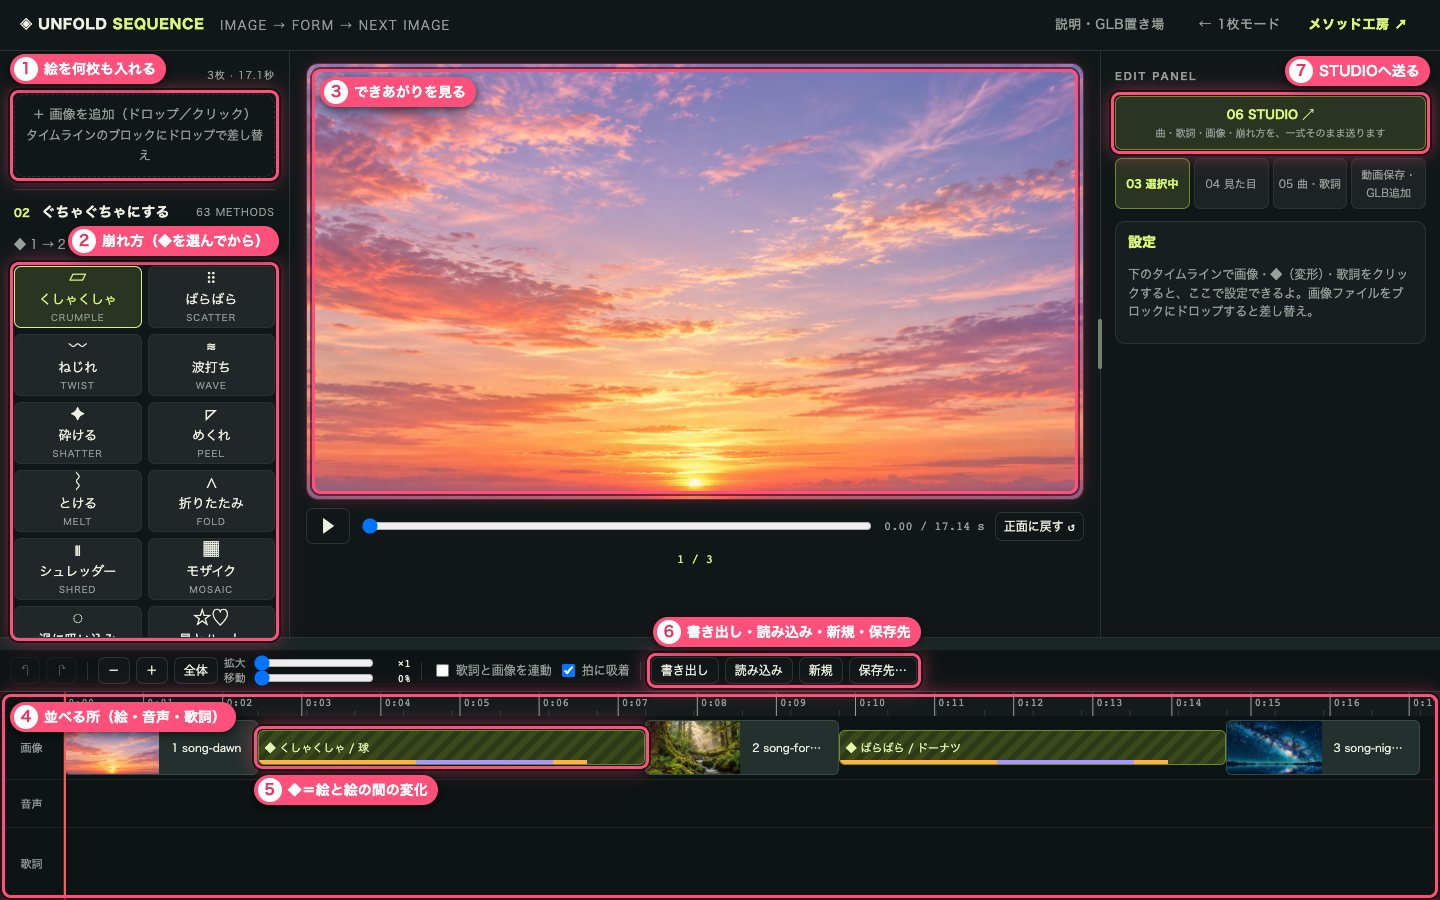
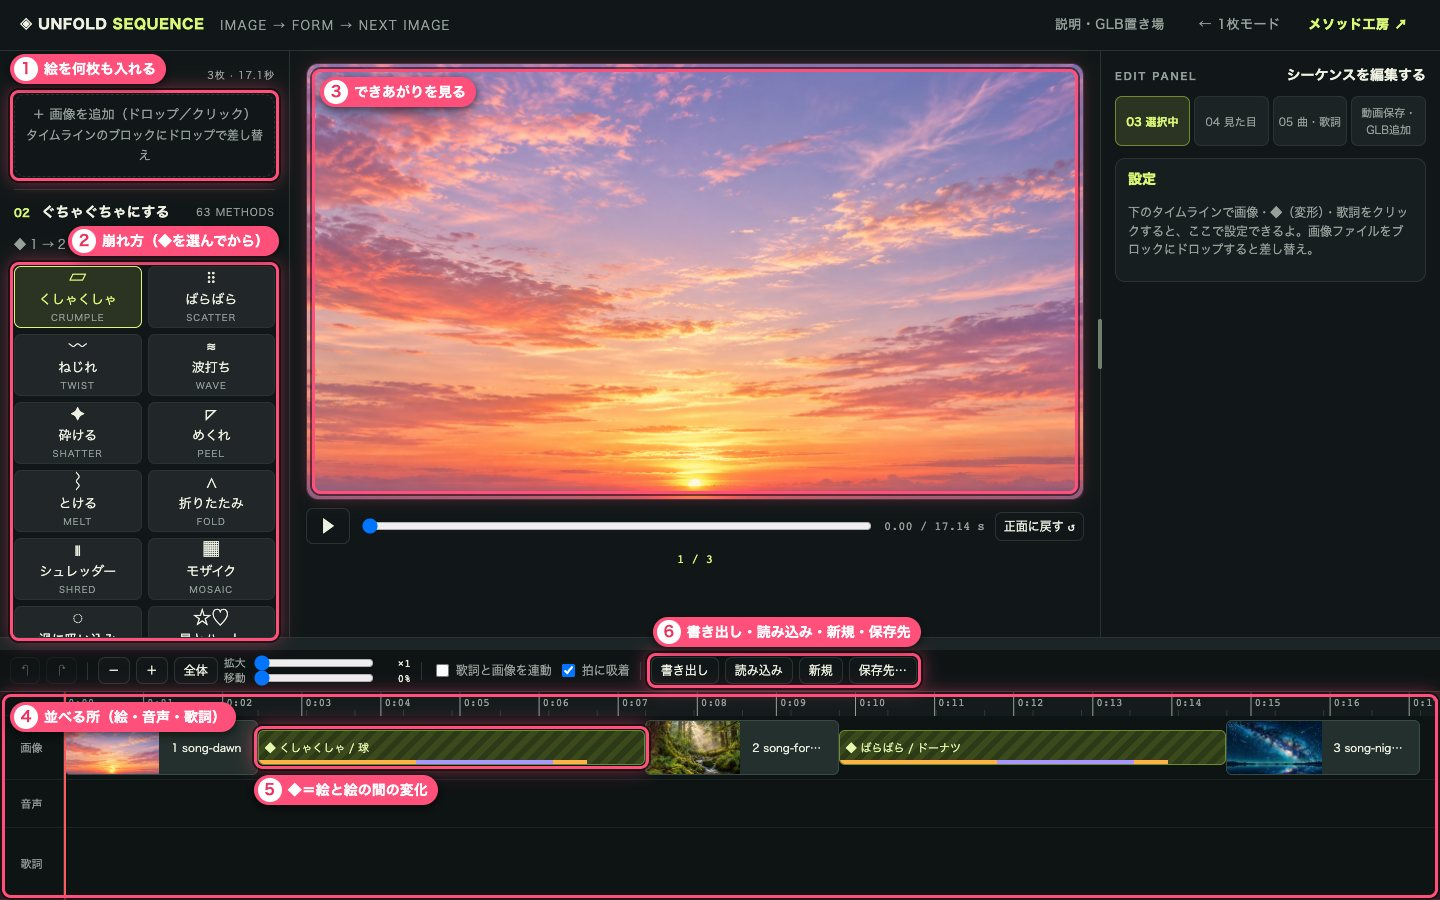
シーケンスから STUDIO への入口を閉じる（STUDIO の画面は、前の作品のために残す）
MV づくりは MOTION LAB へ移す。シーケンスで曲と歌詞まで入れて .unfold に保存し、
MOTION LAB の「作品を開く」で開く。シーケンスの「06 STUDIO」と送る処理、説明書の案内と
ページ下のリンクを外し、説明書の写真を撮り直した。studio.html とエンジンは残す
（MOTION LAB が app/studio/cuts/ を写しているため）。

Changed region(s): [[0.75, 0.0622, 1.0, 0.3733]]

diff --git a/app/guide/manual.html b/app/guide/manual.html
@@ -47,11 +47,10 @@ h3.sub{margin:30px 0 4px;font-size:18px}
 <div class="hero">
   <div class="eyebrow">HOW TO USE</div>
   <h1>使い方 — <em>画面の見かた</em></h1>
-  <p class="lede">UNFOLD には画面が3つあります。まず1枚の絵で試して、何枚もつないで曲に合わせ、最後に STUDIO で歌詞のMVに仕上げる、という順番です。写真の<b style="color:#ff6d93">ピンクの番号</b>が、下の説明の番号です。</p>
+  <p class="lede">UNFOLD には画面が2つあります。まず1枚の絵で試して、何枚もつないで曲と歌詞に合わせ、作品（.unfold）に保存する、という順番です。写真の<b style="color:#ff6d93">ピンクの番号</b>が、下の説明の番号です。</p>
   <div class="flow">
     <a href="#single"><b>① 1枚モード</b><span>1枚の絵を崩して、立体にして、もとに戻す。まずはここで試す</span></a>
     <a href="#sequence"><b>② シーケンス</b><span>絵を何枚も並べて、間の変化（◆）を決める。曲と歌詞も入れられる</span></a>
-    <a href="#studio"><b>③ STUDIO</b><span>曲・歌詞・絵を重ねて、歌詞の動きや演出を決めて、MVとショートにする</span></a>
   </div>
 </div>
 
@@ -81,7 +80,6 @@ h3.sub{margin:30px 0 4px;font-size:18px}
     <li data-n="4"><b>並べる所</b>上から「画像」「音声」「歌詞」。ドラッグで並べ替え、端をつまんで長さを変えます。</li>
     <li data-n="5"><b>◆ ＝ 絵と絵の間の変化</b>押すと、右にその◆の設定が出ます（下の写真）。</li>
     <li data-n="6"><b>書き出し・読み込み・新規・保存先</b>「書き出し」は作品を1つのファイル（.unfold）に保存、「読み込み」はそのファイルを開きます。「新規」は確かめてから空にします（書き出していない変更は消えます）。「保存先…」を決めると、パソコンのファイルにも自動で保存します。</li>
-    <li data-n="7"><b>STUDIOへ送る</b>曲・歌詞・絵・崩れ方を一式そのまま STUDIO に送ります。</li>
   </ol>
   <figure class="shot"><a href="./manual/sequence-2.jpg" target="_blank" rel="noopener" title="大きく見る"><img src="./manual/sequence-2.jpg" width="1440" height="900" alt="◆を選んだところ。右に崩れ方・戻り方・形の設定" loading="lazy"></a><figcaption>◆を選んだ所</figcaption></figure>
   <ol class="marks">
@@ -93,7 +91,7 @@ h3.sub{margin:30px 0 4px;font-size:18px}
 
 <section id="studio">
   <h2><small>03</small>STUDIO</h2>
-  <p>曲・歌詞・絵・動画・UNFOLDの変形を、同じ曲の時間に重ねて、MVに仕上げる画面です。シーケンスの「06 STUDIO」から送ると、全部そろった状態で開きます。</p>
+  <p>曲・歌詞・絵・動画・UNFOLDの変形を、同じ曲の時間に重ねて、MVに仕上げる画面です。シーケンスからの入口は閉じました。前に STUDIO で作った作品を開いて書き出すために、画面だけ残しています（<code>studio.html</code>）。</p>
 
   <h3 class="sub">上のバー：ボタンは色で仲間分け</h3>
   <figure class="shot"><a href="./manual/studio-0.jpg" target="_blank" rel="noopener" title="大きく見る"><img src="./manual/studio-0.jpg" width="1440" height="96" alt="STUDIOの上のバー。作品・編集・演出・書き出しの組" loading="lazy"></a></figure>
@@ -150,7 +148,7 @@ h3.sub{margin:30px 0 4px;font-size:18px}
 </section>
 </main>
 <footer>
-  <a href="./">説明</a> ・ <a href="../">1枚モード</a> ・ <a href="../sequence.html">シーケンス</a> ・ <a href="../studio.html">STUDIO</a> ・ <a href="./methods.html">メソッド集</a> ・ <a href="./glb.html">GLB置き場</a>
+  <a href="./">説明</a> ・ <a href="../">1枚モード</a> ・ <a href="../sequence.html">シーケンス</a> ・ <a href="./methods.html">メソッド集</a> ・ <a href="./glb.html">GLB置き場</a>
   <p style="margin-top:10px">© 2026 UNFOLD</p>
 </footer>
 </body>

diff --git a/app/sequence.js b/app/sequence.js
@@ -53,7 +53,6 @@ import { cleanFx, concealAmount, mixFx, swapCurve } from './fx-mix.js';
 import { CAM_EASES, CAM_PRESETS, CAM_RANGES, camEnds, camLife, camValues, cleanCam, legacyKenBurns, lifeProgress, mixCam } from './camera-work.js?v=1';
 import { openMethodMenu } from './method-menu.js';
 import { methodButtons, syncMethodTiles } from './method-tiles.js';
-import { putHandoff } from './studio-handoff.js?v=1';
 import { registerAsset, imageFromBlob, createHistory, autosave, loadAutosave, clearAutosave, exportFile, importFile, canLinkFile, linkFile, linkedFile, unlinkFile, filePermission, writeLinked } from './project.js?v=11';
 import { cleanFrame, croppedCanvas, framePlacement, needsFrame, describeFrame, frameFromChoice } from './slide-frame.js?v=1';
 import { askSlideFrame } from './slide-frame-dialog.js?v=1';
@@ -1541,29 +1540,8 @@ async function addFiles(files) {
   await prepareShapes();
   renderAt(seq.t);
 }
-// "05 STUDIO": send the whole piece (song, lyrics, pictures, 崩れ方 and shapes) to STUDIO in one go, no file in between.
-// A ctrl/cmd/middle click still just opens STUDIO.
-async function sendToStudio(e) {
-  if (e.button !== 0 || e.metaKey || e.ctrlKey || e.shiftKey || e.altKey) return;
-  e.preventDefault();
-  const link = e.currentTarget;
-  if (link.dataset.busy) return;
-  link.dataset.busy = '1';
-  try {
-    notice('STUDIOへ、一式を送っています…');
-    await flushSave();
-    const blob = await exportFile(stateForSave());
-    const trusted = collectMethods(seq.transitions, getCustom).filter(m => getCustom(m.id)?.status === 'ok').map(m => m.code?.source || m.vertex).filter(Boolean);
-    await putHandoff(blob, { name: `unfold-project-${new Date().toISOString().slice(0, 10)}.unfold`, trustedSources: trusted });
-    location.href = 'studio.html?from=sequence';
-  } catch (err) {
-    console.error(err);
-    notice(`STUDIOへ送れませんでした：${err?.message || err}`);
-  } finally { delete link.dataset.busy; }
-}
 function wire() {
   document.querySelectorAll('.tabs [data-tab]').forEach(b => { b.onclick = () => showTab(b.dataset.tab); });
-  $('studio-entry')?.addEventListener('click', sendToStudio);
   for (const b of document.querySelectorAll('#look-mode [data-mode]')) b.onclick = () => { lookMode = b.dataset.mode; applyLookView(); };
   $('pane-look').addEventListener('pointerdown', () => { lookDragging = true; }, true);
   const lookRelease = () => { if (lookDragging) { lookDragging = false; applyLookView(); } };

diff --git a/app/sequence.html b/app/sequence.html
@@ -195,9 +195,6 @@
   .tabs { display:grid; grid-template-columns:repeat(4,1fr); gap:4px; margin-bottom:12px; }
   .tabs button { background:#1c2324; color:var(--dim); border:1px solid var(--line); border-radius:7px; padding:7px 2px; font:inherit; font-size:11px; cursor:pointer; }
   .tabs button[aria-selected=true] { color:var(--accent); border-color:#6f8a30; background:#2b3323; font-weight:700; }
-  .studio-entry { display:block; margin:0 0 8px; padding:8px 10px; border:1px solid #6f8a30; border-radius:7px; background:#2b3323; color:var(--accent); font-size:12px; font-weight:700; text-align:center; text-decoration:none; }
-  .studio-entry small { display:block; margin-top:2px; font-size:10px; font-weight:400; color:var(--dim); }
-  .studio-entry:hover, .studio-entry:focus-visible { background:#34402a; }
   .pane[hidden] { display:none; }
   .pane h2 { margin:14px 0 6px; }
   .pane h2:first-child { margin-top:0; }
@@ -268,7 +265,6 @@
 </section>
 <aside class="right">
   <div class="panel-head"><span class="eyebrow">EDIT PANEL</span><strong>シーケンスを編集する</strong></div>
-  <a href="studio.html" class="studio-entry" id="studio-entry">06 STUDIO ↗ <small>曲・歌詞・画像・崩れ方を、一式そのまま送ります</small></a>
   <div class="tabs" role="tablist">
     <button role="tab" data-tab="edit" aria-selected="true">03 選択中</button>
     <button role="tab" data-tab="look" aria-selected="false">04 見た目</button>
@@ -337,7 +333,7 @@
 <section id="seq-timeline" class="timeline" aria-label="タイムライン"></section>
 </main>
 <div id="seq-notice"></div>
-<script type="module" src="./sequence.js?v=121"></script>
+<script type="module" src="./sequence.js?v=122"></script>
 <script type="module" src="./panel-resize.js?v=1"></script>
 </body>
 </html>
